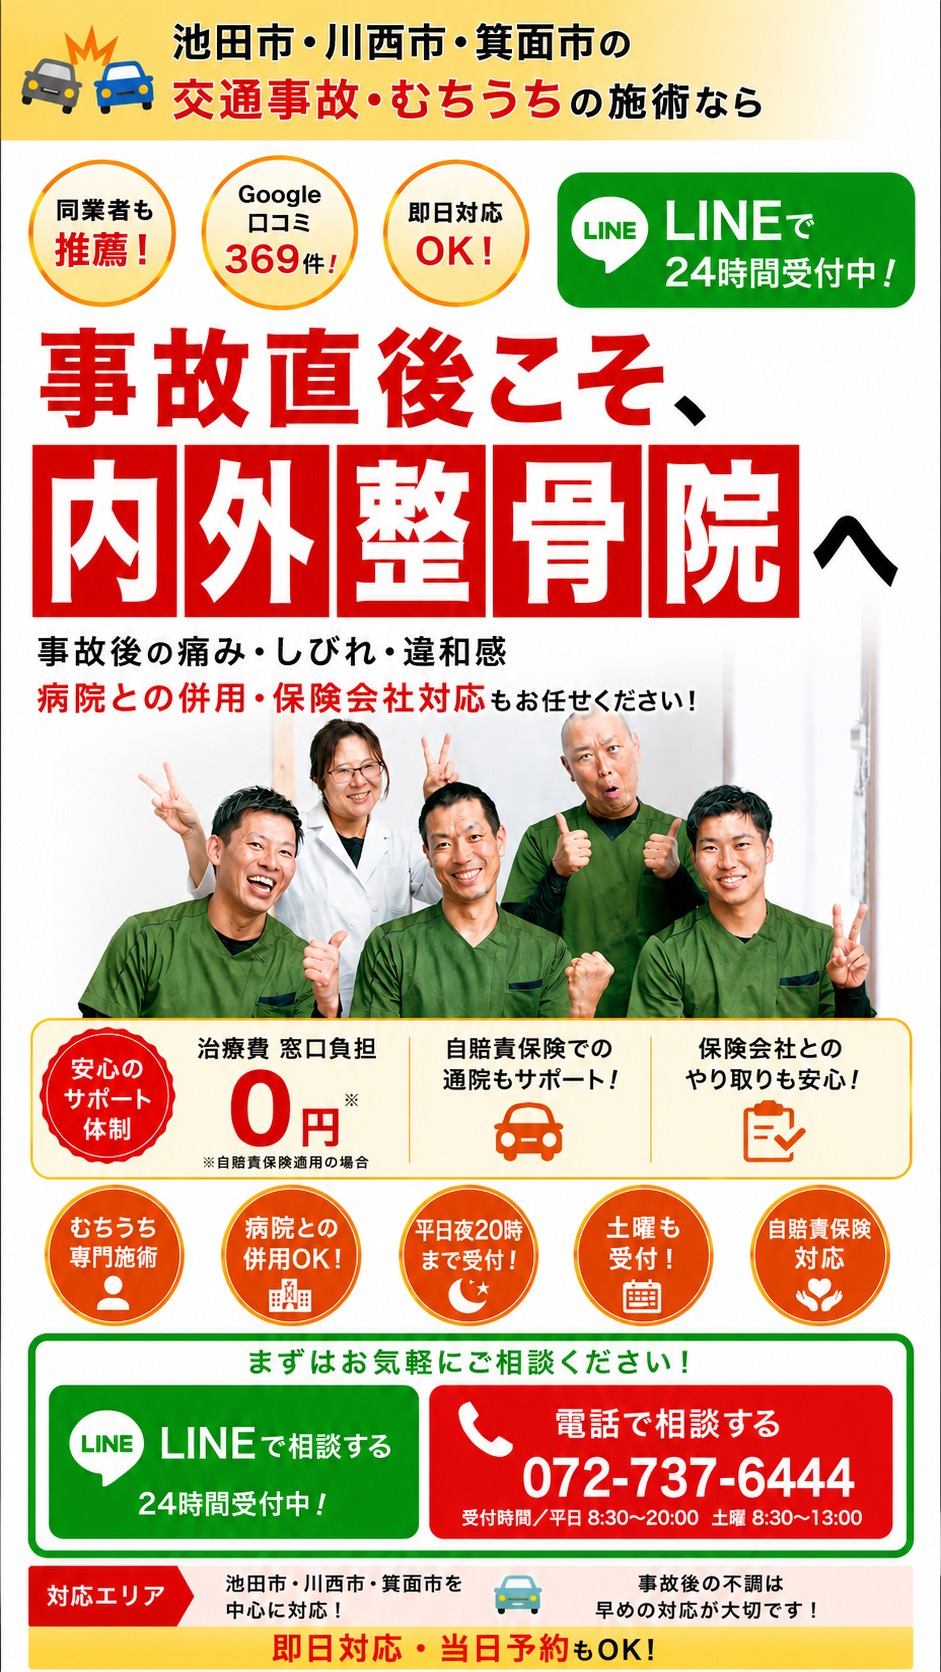
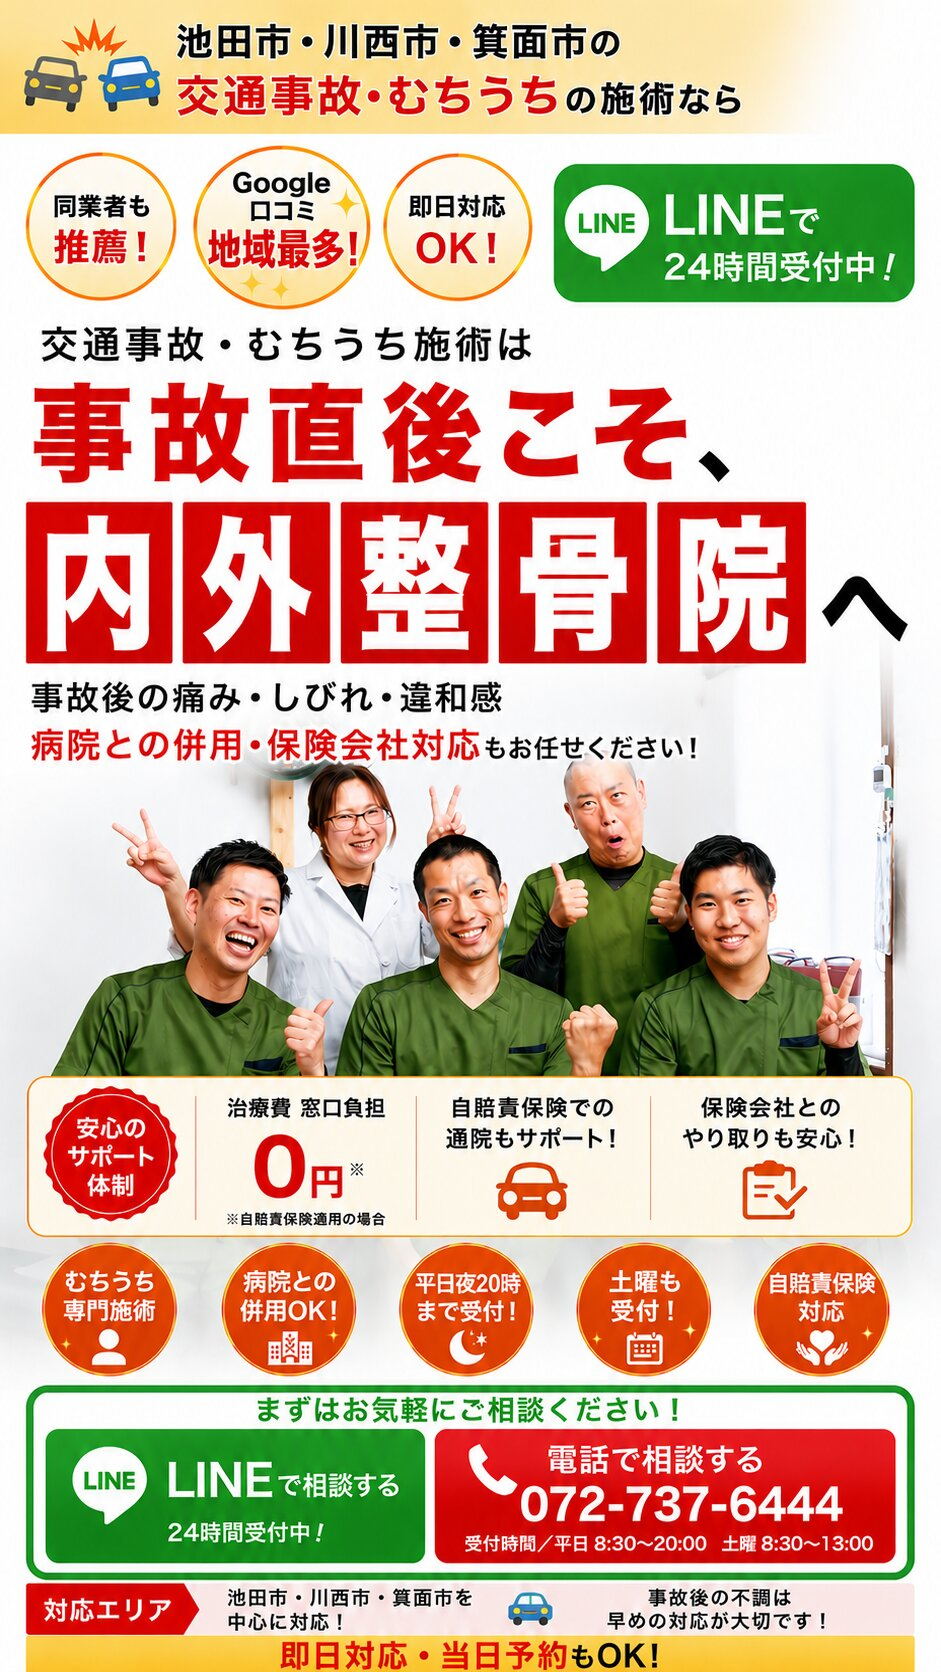
本番納品準備：FV最新版差し替え・他社直リンク画像のローカル化
- FV(PC/SP)を最新版（地域最多！表記）に差し替え
- セミナー5枚・施術の流れ6枚をikeda-daiichi.com直リンクからローカル化
- 画像圧縮（納品バンドル29MB→7MB）

diff --git a/index_v2.html b/index_v2.html
@@ -682,14 +682,14 @@ footer a:hover{color:#f0540c}
       <h3>平成医療学園専門学校にて<br>技術セミナーを開催しました</h3>
       <p class="seminar-subtitle">「経験したから解る！腰痛、膝痛に効く腸腰筋テクニック」</p>
       <div class="seminar-photos">
-        <img src="https://ikeda-daiichi.com/wp-content/uploads/2024/01/IMG_3880-2-300x225.jpg" alt="腸腰筋セミナー風景1">
-        <img src="https://ikeda-daiichi.com/wp-content/uploads/2024/01/IMG_3889-2-300x225.jpg" alt="腸腰筋セミナー風景2">
+        <img src="seminar1.jpg" alt="腸腰筋セミナー風景1">
+        <img src="seminar2.jpg" alt="腸腰筋セミナー風景2">
       </div>
       <p>院長・清水の出身校である平成医療学園専門学校にて、当院独自の腸腰筋テクニックのセミナーを開催しました。専門学校の松本先生の頭痛を清水が改善したご縁から実現したもので、多くの先生方に技術をお伝えすることができました。</p>
       <div class="seminar-photos-3">
-        <img src="https://ikeda-daiichi.com/wp-content/uploads/2024/01/IMG_3878-2-225x300.jpg" alt="腸腰筋セミナー風景3">
-        <img src="https://ikeda-daiichi.com/wp-content/uploads/2024/01/IMG_3865-225x300.jpg" alt="腸腰筋セミナー風景4">
-        <img src="https://ikeda-daiichi.com/wp-content/uploads/2024/01/IMG_3866-225x300.jpg" alt="腸腰筋セミナー風景5">
+        <img src="seminar3.jpg" alt="腸腰筋セミナー風景3">
+        <img src="seminar4.jpg" alt="腸腰筋セミナー風景4">
+        <img src="seminar5.jpg" alt="腸腰筋セミナー風景5">
       </div>
     </div>
   </div>
@@ -773,7 +773,7 @@ footer a:hover{color:#f0540c}
         <div class="flow-item-head"><div class="f-num">01</div><span class="f-title">カルテ記入</span></div>
         <div class="flow-item-inner">
           <p class="f-body">まず、カルテ（問診表）に症状などの記入をお願いします。事故の状況・現在の症状・困っていること等をお書きください。その後、カウンセリングで詳しくお話を伺いますので、書ける範囲で構いません。</p>
-          <div class="f-img"><img src="https://ikeda-daiichi.com/wp-content/uploads/2025/12/20250715-E6R_9626-300x200.jpg" alt="カルテ記入"></div>
+          <div class="f-img"><img src="flow01.jpg" alt="カルテ記入"></div>
         </div>
       </div>
 
@@ -781,7 +781,7 @@ footer a:hover{color:#f0540c}
         <div class="flow-item-head"><div class="f-num">02</div><span class="f-title">カウンセリング</span></div>
         <div class="flow-item-inner">
           <p class="f-body">事故の状況や現在の症状を詳しく伺います。保険の手続き状況・他院への通院状況なども確認します。どんな些細なことでも構いませんのでお気軽にお話しください。</p>
-          <div class="f-img"><img src="https://ikeda-daiichi.com/wp-content/uploads/2025/10/20250715-E6R_9733-300x200.jpg" alt="カウンセリング"></div>
+          <div class="f-img"><img src="flow02.jpg" alt="カウンセリング"></div>
         </div>
       </div>
 
@@ -789,7 +789,7 @@ footer a:hover{color:#f0540c}
         <div class="flow-item-head"><div class="f-num">03</div><span class="f-title">症状説明</span></div>
         <div class="flow-item-inner">
           <p class="f-body">交通事故の衝撃がお身体にどのように影響しているか、腸腰筋を中心にわかりやすくご説明します。「なぜその症状が出ているのか」が明確になることで、改善への見通しが立ちます。</p>
-          <div class="f-img"><img src="https://ikeda-daiichi.com/wp-content/uploads/2025/12/20250715-E6R_9751-300x200.jpg" alt="症状説明"></div>
+          <div class="f-img"><img src="flow03.jpg" alt="症状説明"></div>
         </div>
       </div>
 
@@ -797,7 +797,7 @@ footer a:hover{color:#f0540c}
         <div class="flow-item-head"><div class="f-num">04</div><span class="f-title">施術実施</span></div>
         <div class="flow-item-inner">
           <p class="f-body">交通事故後の腸腰筋の収縮を解放し、骨盤・背骨・神経の連鎖ダメージを根本から整えていきます。強い刺激を与えず、身体が自然に回復する状態へ導きます。</p>
-          <div class="f-img"><img src="https://ikeda-daiichi.com/wp-content/uploads/2025/10/20250715-E6R_9525-300x200.jpg" alt="施術実施"></div>
+          <div class="f-img"><img src="flow04.jpg" alt="施術実施"></div>
         </div>
       </div>
 
@@ -805,7 +805,7 @@ footer a:hover{color:#f0540c}
         <div class="flow-item-head"><div class="f-num">05</div><span class="f-title">変化確認と説明</span></div>
         <div class="flow-item-inner">
           <p class="f-body">施術後の変化を確認し、今後の通院計画をお伝えします。後遺症を残さないためのセルフケア方法や、保険会社への対応についても丁寧にご説明します。</p>
-          <div class="f-img"><img src="https://ikeda-daiichi.com/wp-content/uploads/2025/12/20250715-E6R_9738-1-300x200.jpg" alt="変化確認と説明"></div>
+          <div class="f-img"><img src="flow05.jpg" alt="変化確認と説明"></div>
         </div>
       </div>
 
@@ -813,7 +813,7 @@ footer a:hover{color:#f0540c}
         <div class="flow-item-head"><div class="f-num">06</div><span class="f-title">会計・お支払い</span></div>
         <div class="flow-item-inner">
           <p class="f-body">交通事故の場合、治療費は相手方の自賠責保険から支払われます。窓口でのお支払いは原則０円です。保険手続きがまだの方も、スタッフが手順をご案内します。</p>
-          <div class="f-img"><img src="https://ikeda-daiichi.com/wp-content/uploads/2025/12/20250715-E6R_9638-300x200.jpg" alt="会計・お支払い"></div>
+          <div class="f-img"><img src="flow06.jpg" alt="会計・お支払い"></div>
         </div>
       </div>
 
